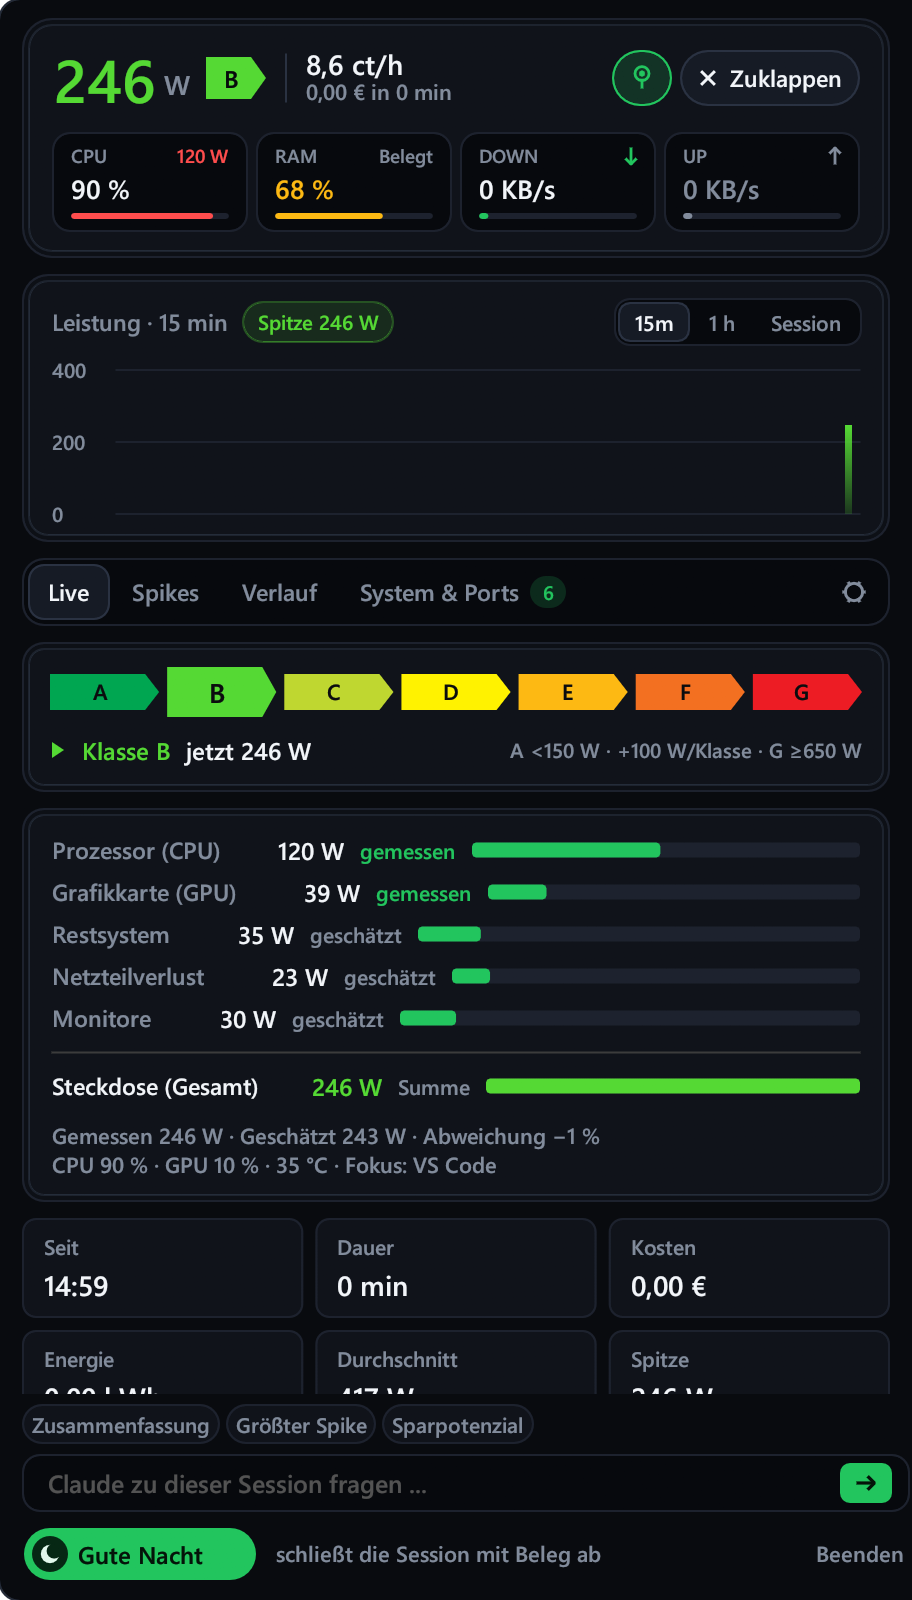
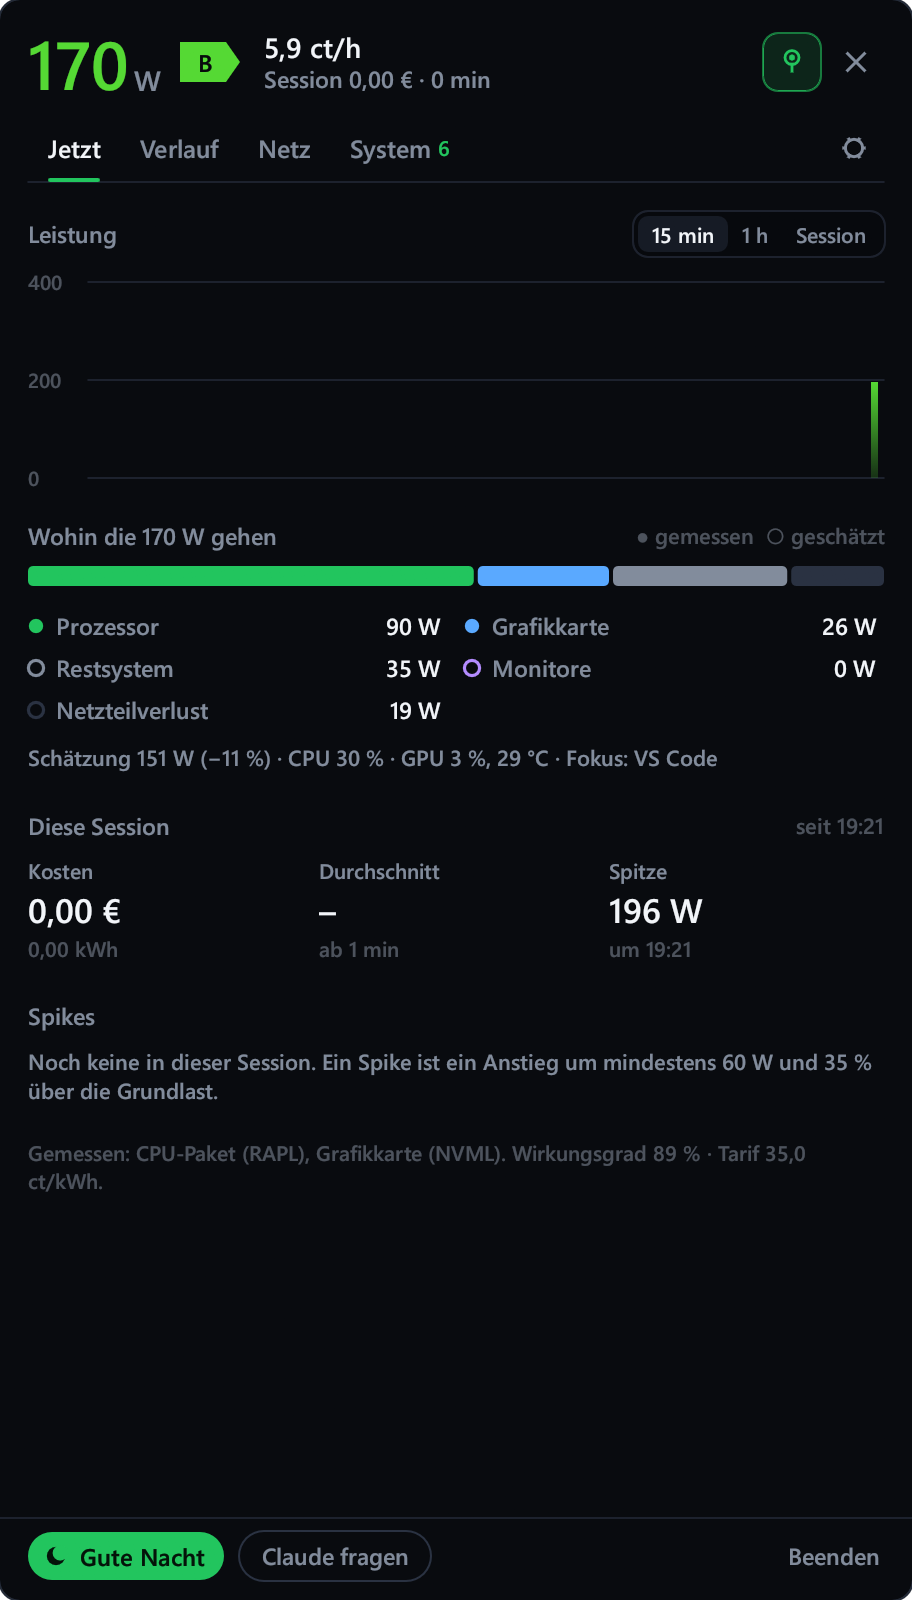
Version 2.1.0: README and images for the new panel
New screenshots from the self-test with made-up history (no real usage
data): strip, Now, History, Network, System & Ports, Settings and the
German Now tab. The hero picture gets the new strip. The README
describes the History tab with the forecast, budget and heat map, the
Network tab, and how sessions end; the file table lists the new
modules.

diff --git a/docs/hero/hero.html b/docs/hero/hero.html
@@ -32,7 +32,7 @@
     margin-top: 36px; font-size: 28px; line-height: 1.4; color: var(--ink);
     max-width: 760px; font-weight: 400;
   }
-  .strip { margin-top: 56px; display: block; width: 632px; height: 72px; border-radius: 16px; }
+  .strip { margin-top: 56px; display: block; width: 524px; height: 72px; border-radius: 16px; }
   /* The icon from assets/icon.svg without its rounded square: ring, arc and bolt. */
   .mark {
     grid-column: 2; grid-row: 1 / 3; align-self: center;

diff --git a/README.md b/README.md
@@ -4,14 +4,14 @@
 
 **A power meter for your Windows taskbar, in watts and in money.**
 
-It sits in the taskbar and shows three things: what your PC draws right now, what that costs per
-hour at your tariff, and what this session has cost so far. Click it to open a panel with the full
-breakdown, your local ports and your session history.
+It sits in the taskbar and shows what your PC draws right now and what this session has cost so
+far. Click it to open a panel with the cost per hour, the full breakdown, your history by day,
+week, month and year with a forecast for the month, your network usage and your local ports.
 
 Written in Rust with [egui](https://github.com/emilk/egui). One 5 MB exe, with no Electron, no
 installer, no background service and no admin rights.
 
-<p align="center"><img src="docs/img/compact-strip.png" width="632" alt="The collapsed strip in the taskbar: energy class, watts, cost per hour, CPU, RAM and network"></p>
+<p align="center"><img src="docs/img/compact-strip.png" width="524" alt="The collapsed strip in the taskbar: watts, session cost, CPU, RAM and network"></p>
 
 > [!NOTE]
 > Processor and graphics card are measured. Mainboard, power supply loss and monitors are estimated
@@ -31,16 +31,16 @@ and start it. It docks into the taskbar. Windows 10 or 11, nothing to install.
 
 ## Live watts, in money
 
-<img align="right" src="docs/img/expanded-live.png" width="300" alt="Live tab: energy class, breakdown per component, session totals">
+<img align="right" src="docs/img/expanded-live.png" width="300" alt="Now tab: power chart, breakdown per component, session totals and spikes">
 
-The number in the strip is the whole PC at the wall socket. You see it as cost per hour, updating
-live.
+The number in the strip is the whole PC at the wall socket. The panel also shows it as cost per
+hour, updating live.
 
-The Live tab splits that number into processor, graphics card, rest of the system, power supply
+The Now tab splits that number into processor, graphics card, rest of the system, power supply
 loss and monitors. Each line says whether it is **measured** or **estimated**, so you always know
 how much of the total is a guess.
 
-The colour is the EU energy label. Below 150 W you are in class A, and every further 100 W moves
+The badge next to the watts is the EU energy label. Below 150 W you are in class A, and every further 100 W moves
 you one class towards G.
 
 Under the breakdown you get the session totals: start time, duration, kWh, average, peak and cost
@@ -58,11 +58,42 @@ so far. Above it is a chart for the last 15 minutes, the last hour or the whole 
 | Power supply loss | from the load and the PSU rating you choose | estimated |
 | Monitors | your list of monitors and their draw | estimated |
 
-A second model runs alongside, built only from CPU and GPU load, and the Live tab shows how far
+A second model runs alongside, built only from CPU and GPU load, and the Now tab shows how far
 apart the two are.
 
 For exact figures, plug the PC into a power meter once and adjust the rest-of-system value until
 the two match.
+
+## History and forecast
+
+<img align="right" src="docs/img/history.png" width="300" alt="History tab: cost per day of the month, average, forecast, heat map by hour and the session list">
+
+The History tab shows what the PC cost per day, week, month or year, with the average and a
+comparison with the period before.
+
+- **Forecast for the month.** It takes your typical day from the last two weeks, adds what is
+  still to come today from your usual hourly pattern, and does the same for the days left in the
+  month. The year view works the same way from your first recorded day.
+- **Monthly budget.** Set one and the forecast tells you whether you will stay under it.
+- **When the PC draws power.** A heat map of the average watts per weekday and hour over the last
+  four weeks.
+- **Sessions** with start, end, duration, kWh and cost, and how each one ended: sleep, shut down,
+  signed out or closed.
+- **Export.** All days as CSV into your Documents folder.
+
+<br clear="right">
+
+## Network
+
+<img align="right" src="docs/img/network.png" width="300" alt="Network tab: download and upload now, data volume per day, records and connection type">
+
+Download and upload right now with a chart for the last 15 minutes, and below it the data volume
+per day for the week or month, with the daily average and a comparison with last month. Records
+show the fastest download and the day with the most data.
+
+Usage per program would need admin rights, so the widget does not show it.
+
+<br clear="right">
 
 ## System & Ports
 
@@ -86,13 +117,14 @@ The tab label shows the count, so you notice when something new starts listening
 ## Spikes, sessions and the receipt
 
 - **Spikes.** When the draw is at least 60 W and 35 % above the load of the last two minutes, the
-  widget records a spike and the programs that were busy at that moment.
+  widget records a spike and the programs that were busy at that moment. The Now tab lists them.
 - **Sessions survive a power cut.** They are saved every 30 seconds, so even a hard power-off
   loses half a minute at most. The session is closed on the next start.
-- **Good night.** One button (or Windows shutting down) closes the session and prints a receipt
-  with duration, kWh, cost, average and peak, the spikes, the CPU load per program, and what a
-  month like this would cost.
-- **History** keeps every finished session with its total.
+- **Sessions know how they ended.** Sleep ends a session and waking starts a new one, so a night
+  of sleep does not count as one long session. Shutting down, restarting and signing out are noted
+  too, and only a real crash or power cut shows up as "ended unexpectedly".
+- **Good night.** One button closes the session and prints a receipt with duration, kWh, cost,
+  average and peak, the spikes, the CPU load per program, and what a month like this would cost.
 
 ## Your setup, your numbers
 
@@ -169,12 +201,16 @@ Chrome at 1600 × 860.
 |---|---|
 | `src/main.rs` | The app state, the sensor thread, the window geometry and start-up |
 | `src/ui/strip.rs` | The collapsed strip, in the taskbar or in a screen corner |
-| `src/ui/flyout.rs`, `chart.rs` | The expanded panel: header, tab bar, footer and the power chart |
-| `src/ui/live.rs`, `spikes.rs`, `history.rs`, `system.rs` | One file per tab: Live, Spikes, History, System & Ports |
+| `src/ui/flyout.rs`, `chart.rs`, `bars.rs` | The expanded panel: header, tab bar, footer, the power chart and the bar charts |
+| `src/ui/live.rs`, `history.rs`, `net.rs`, `system.rs` | One file per tab: Now, History, Network, System & Ports |
+| `src/ui/spikes.rs` | The spike details, opened from the Now tab |
 | `src/ui/settings.rs`, `summary.rs`, `claude_bar.rs` | The settings page, the session receipt and the questions to Claude |
 | `src/power.rs` | The power model: measured and estimated watts, settings |
 | `src/sensors.rs` | RAPL, NVML, network, RAM, listening ports and the probe for local web interfaces |
-| `src/session.rs` | Sessions, history, spikes, and saving them continuously |
+| `src/procs.rs` | All processes with CPU and memory from one Windows call |
+| `src/session.rs` | Sessions, spikes, the session index, and saving them continuously |
+| `src/daybook.rs` | Energy, cost and network volume per day and hour (`days.json`), and the forecast |
+| `src/endsession.rs` | Notices shutdown, sign-out and sleep, so a session says how it ended |
 | `src/taskbar.rs` | Docking into the Windows taskbar and the corner placements |
 | `src/theme.rs` | Colours, the energy label and the drawn icons |
 | `src/claude.rs` | Asking the local Claude CLI, off the UI thread |
@@ -195,8 +231,8 @@ every push.
 Raise `version` in `Cargo.toml`, commit, then push a tag with the same number:
 
 ```powershell
-git tag v2.0.1
-git push origin v2.0.1
+git tag v2.1.1
+git push origin v2.1.1
 ```
 
 GitHub Actions checks that the tag matches `Cargo.toml`, builds the exe with
@@ -215,8 +251,10 @@ PC gerade zieht, was das pro Stunde kostet und was die laufende Sitzung bisher g
   Mainboard, Netzteilverluste und Monitore werden geschätzt.
 - **System & Ports** erkennt lokale Weboberflächen (Dev-Server, Dashboards) und öffnet sie mit
   einem Klick. Dazu kommen alle offenen Ports mit Programm und PID.
+- **Verlauf** nach Tag, Woche, Monat und Jahr mit Hochrechnung für den Monat, Monatsbudget und
+  Wärmekarte nach Uhrzeit, dazu **Netzwerk** mit Datenvolumen pro Tag und Durchschnitt.
 - **Lastspitzen** mit der wahrscheinlichen Ursache, **Sitzungen**, die auch einen harten
-  Stromausfall überstehen, und zum Abschluss eine **Gute-Nacht-Quittung**.
+  Stromausfall überstehen und beim Energiesparmodus sauber enden, und zum Abschluss eine **Gute-Nacht-Quittung**.
 - Deutsch oder Englisch, Euro oder Dollar. Alle Daten bleiben lokal in `%APPDATA%\Strom-Widget`.
 
 **Download:** `Strom-Widget.exe` aus dem [neuesten Release](https://github.com/Nfinds/strom-widget/releases/latest)
